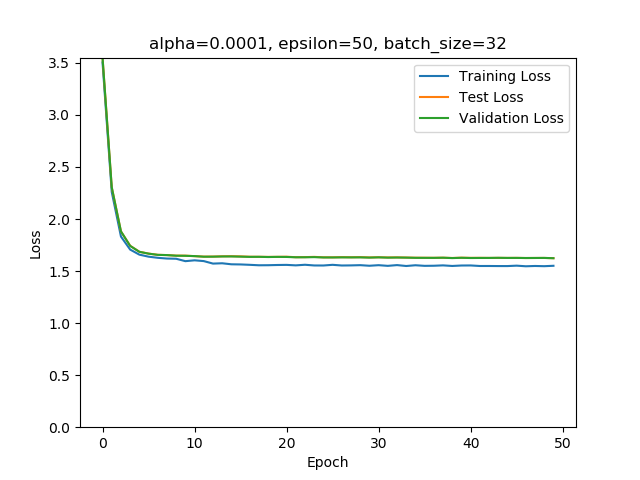
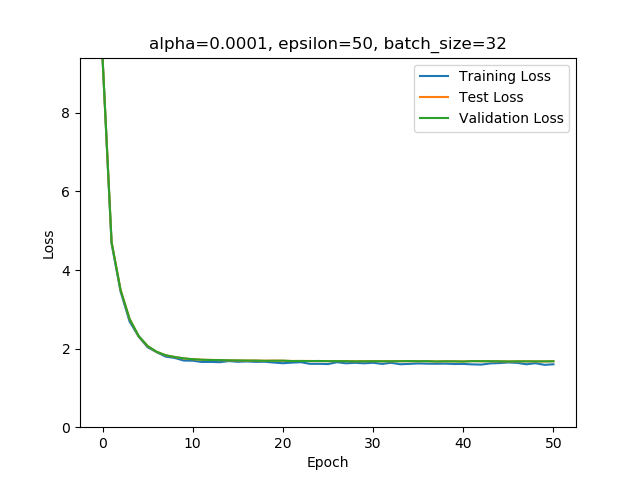
new graphs

diff --git a/model.py b/model.py
@@ -15,8 +15,9 @@ batch_size = 32
 learn_rate = 0.0001
 num_classes = 10
 regularization = 0.01  # 0.01, 0.1, 0.5
-dropout_rate = 0.5  # 0.9, 0.75, 0.5
-
+reg = '001'
+dropout_rate = 0.9  # 0.9, 0.75, 0.5
+dr = '09'
 
 # Load the data
 def loadData():
@@ -79,7 +80,7 @@ def model_forward(x, weights, biases):
     x = tf.add(tf.matmul(x, weights['fc1_weight']), biases['fc1_bias'])
 
     # Dropout layer
-    # x = tf.layers.dropout(x, rate=dropout_rate)
+    x = tf.layers.dropout(x, rate=dropout_rate, training=True)
 
     # Second ReLU layer
     x = tf.nn.relu(x)
@@ -98,7 +99,7 @@ if __name__ == '__main__':
     # with tf.device(device_name):
     trainData, validData, testData, trainTarget, validTarget, testTarget = loadData()
 
-    # reshape to 4D tensors for input into CNN
+    # Reshape to 4D tensors for input into CNN
     trainData = np.expand_dims(trainData, 3)
     validData = np.expand_dims(validData, 3)
     testData = np.expand_dims(testData, 3)
@@ -123,16 +124,20 @@ if __name__ == '__main__':
 
     pred = model_forward(x, weights, biases)
 
+    # Calculate cost (with l2 regularization)
     cost = tf.reduce_mean(tf.nn.softmax_cross_entropy_with_logits_v2(labels=y, logits=pred)) + \
         tf.multiply(
                tf.reduce_sum(tf.square(weights['conv2d_filter1'])) + tf.reduce_sum(tf.square(weights['fc1_weight']))
                + tf.reduce_sum(tf.square(weights['out_weight'])), regularization / 2)
 
+    # regularizer = tf.nn.l2_loss(weights)
+    # loss = tf.reduce_mean(loss + beta * regularizer)
+
     optimizer = tf.train.AdamOptimizer(learning_rate=learn_rate).minimize(cost)
 
     correct_prediction = tf.equal(tf.argmax(pred, 1), tf.argmax(y, 1))
 
-    # calculate accuracy across all the given images and average them out.
+    # Calculate accuracy across all the given images and average them out.
     accuracy = tf.reduce_mean(tf.cast(correct_prediction, tf.float64))
 
     train_losses = []
@@ -162,6 +167,8 @@ if __name__ == '__main__':
         test_losses.append(test_loss)
         test_accuracies.append(test_acc)
 
+        batches.append(counter)
+
         # Training
         for epoch in range(epochs):
             shuffle(trainData, newtrain)
@@ -175,8 +182,8 @@ if __name__ == '__main__':
                 train_loss, train_acc = sess.run([cost, accuracy], feed_dict={x: train_Batch, y: train_Target_Batch})
                 # print(train_loss, train_acc)
 
-            batches.append(counter)
             counter += 1
+            batches.append(counter)
 
             valid_loss, valid_acc = sess.run([cost, accuracy], feed_dict={x: validData, y: newvalid})
             test_loss, test_acc = sess.run([cost, accuracy], feed_dict={x: testData, y: newtest})
@@ -195,6 +202,14 @@ if __name__ == '__main__':
             #      .format(epoch + 1, train_loss, train_acc))
 
     # Plotting
+    np.save('plots/epochs', batches)
+    np.save('plots/train_acc', np.array(train_accuracies))
+    np.save('plots/valid_acc', np.array(valid_accuracies))
+    np.save('plots/test_acc', np.array(test_accuracies))
+    np.save('plots/train_loss', np.array(test_losses))
+    np.save('plots/valid_loss', np.array(valid_losses))
+    np.save('plots/test_loss', np.array(test_losses))
+
     batches = np.array(batches)
     fig = plt.figure()
     plt.plot(batches, train_losses, label='Training Loss')
@@ -206,7 +221,7 @@ if __name__ == '__main__':
     plt.xlabel('Epoch')
     plt.ylabel('Loss')
     plt.legend(loc='best')
-    fig.savefig('plots/p34c_sgd_loss_eps_{}.png'.format(epochs))
+    fig.savefig('plots/loss_dropout={}.png'.format(dr))
 
     fig = plt.figure()
     plt.plot(batches, train_accuracies, label='Training Accuracy')
@@ -218,4 +233,4 @@ if __name__ == '__main__':
     plt.xlabel('Epoch')
     plt.ylabel('Accuracy')
     plt.legend(loc='best')
-    fig.savefig('plots/p34c_sgd_acc_eps_{}.png'.format(epochs))
+    fig.savefig('plots/acc_dropout={}.png'.format(dr))

diff --git a/temp.py b/temp.py
@@ -1,0 +1,4 @@
+import numpy as np
+
+a = np.load("./plots/train_loss.npy")
+print(a)
